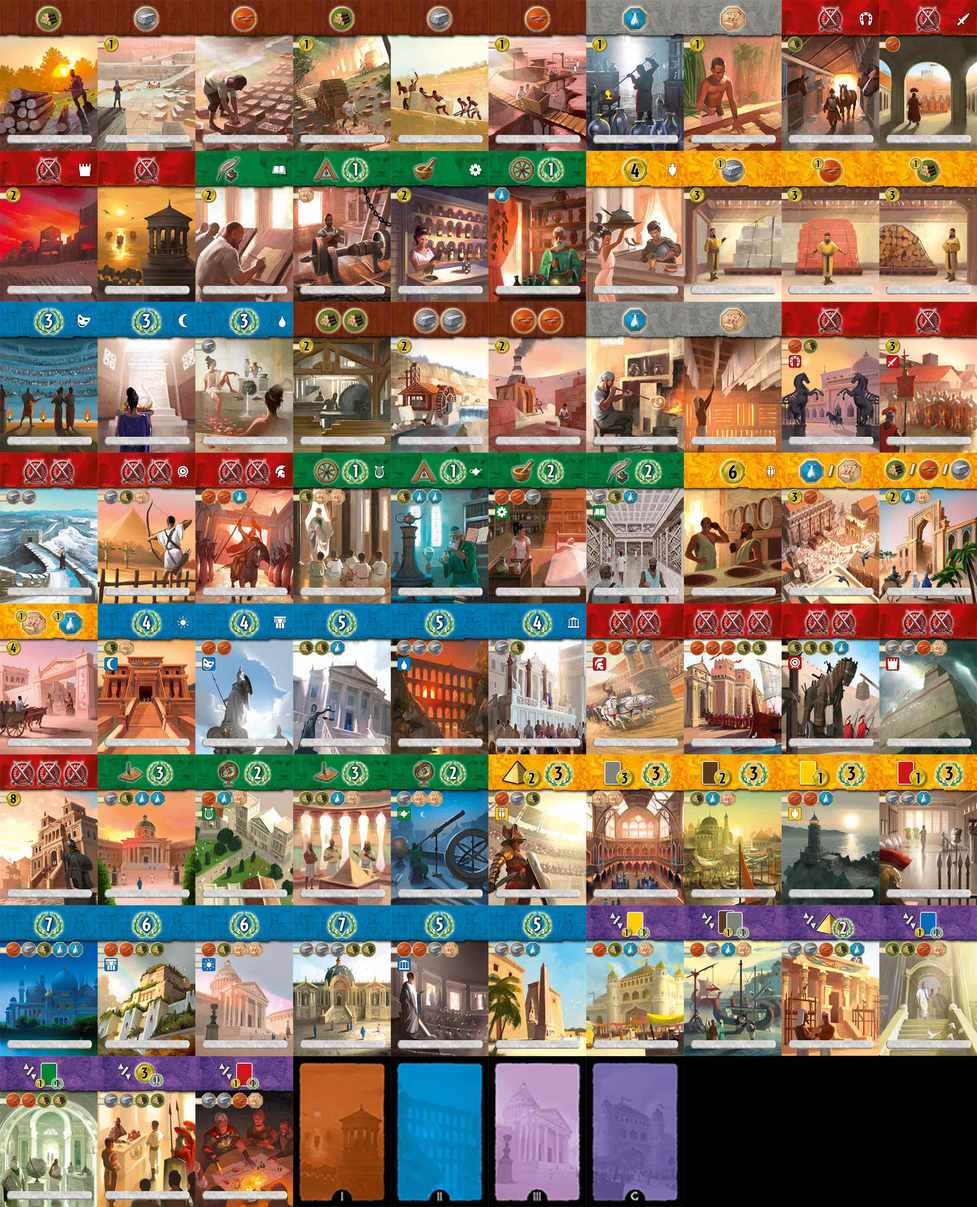
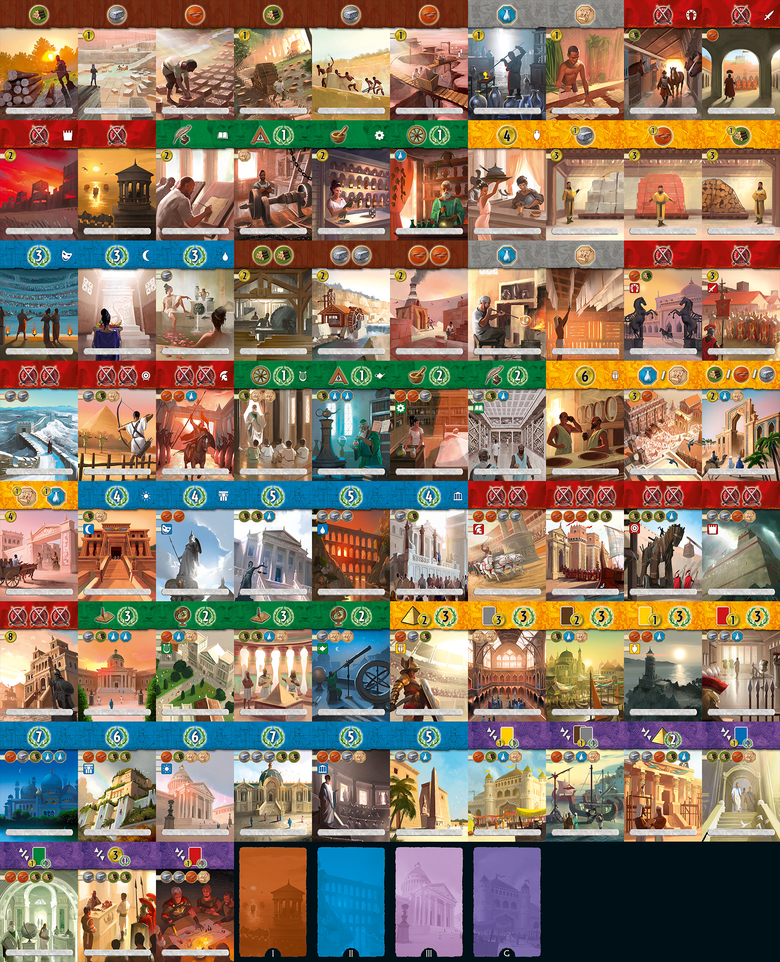
Highres art Buildings. Had to make the spritesheet smaller to support the @2X version at 4096 pixels high. To keep most of the current logic we multiply with --building-spritesheet-scale

diff --git a/sevenwondersduel_source.css b/sevenwondersduel_source.css
@@ -62,12 +62,13 @@ __     __         _       _     _
     --element-scale: 1.0;
     --gutter: calc(7.5px * var(--scale));
 
-    --building-spritesheet-width: 2080px;
-    --building-spritesheet-height: 2568px;
+    --building-spritesheet-width: 1660px;
+    --building-spritesheet-height: 2080px;
     --building-spritesheet-columns: 10;
     --building-spritesheet-rows: 8;
-    --building-width: calc(var(--building-spritesheet-width) / var(--building-spritesheet-columns));
-    --building-height: calc(var(--building-spritesheet-height) / var(--building-spritesheet-rows));
+    --building-spritesheet-scale: 1.253; /* Had to make the spritesheet smaller to support the @2X version at 4096 pixels high. */
+    --building-width: calc(var(--building-spritesheet-width) / var(--building-spritesheet-columns) * var(--building-spritesheet-scale));
+    --building-height: calc(var(--building-spritesheet-height) / var(--building-spritesheet-rows) * var(--building-spritesheet-scale));
     --building-small-scale: calc(0.5 * var(--scale));
     --building-small-width: calc(var(--building-width) * var(--building-small-scale));
     --building-small-height: calc(var(--building-height) * var(--building-small-scale));
@@ -1150,8 +1151,8 @@ __     __         _       _     _
 .building {
     width: calc(var(--building-width) * var(--scale));
     height: calc(var(--building-height) * var(--scale));
-    background-size: calc(var(--building-spritesheet-width) * var(--scale)) calc(var(--building-spritesheet-height) * var(--scale));
-    background-image: url('img/buildings.jpg');
+    background-size: calc(var(--building-width) * var(--building-spritesheet-columns) * var(--scale)) calc(var(--building-height) * var(--building-spritesheet-rows) * var(--scale));
+    background-image: url('img/buildings@2X.jpg');
     border-radius: calc(14px * var(--scale));
     box-shadow: calc(var(--scale) * 5px) calc(var(--scale) * 5px) calc(var(--scale) * 5px) 0 rgba(0, 0, 0, 0.4),
     inset 0 0 0 calc(var(--scale) * 1px) #00000060;
@@ -1162,7 +1163,7 @@ __     __         _       _     _
 .building_header_small {
     width: var(--building-small-width);
     height: var(--building-header-small-height);
-    background-size: calc(var(--building-spritesheet-width) * var(--building-small-scale)) calc(var(--building-spritesheet-height) * var(--building-small-scale));
+    background-size: calc(var(--building-width) * var(--building-spritesheet-columns) * var(--building-small-scale)) calc(var(--building-height) * var(--building-spritesheet-rows) * var(--building-small-scale));
     border-radius: var(--small-border-radius);
     box-shadow: 0 0 calc(var(--scale) * 3px) calc(var(--scale) * 1px) rgba(0, 0, 0, 0.4),
     inset 0 0 0 calc(var(--scale) * 0.5px) #00000060;
@@ -1199,7 +1200,7 @@ Because of reversing the flexbox order for the opponent there are 2 different ru
 .building_small {
     width: var(--building-small-width);
     height: var(--building-small-height);
-    background-size: calc(var(--building-spritesheet-width) * var(--building-small-scale)) calc(var(--building-spritesheet-height) * var(--building-small-scale));
+    background-size: calc(var(--building-width) * var(--building-spritesheet-columns) * var(--building-small-scale)) calc(var(--building-height) * var(--building-spritesheet-rows) * var(--building-small-scale));
     border-radius: var(--small-border-radius);
     box-shadow: 0 0 calc(var(--scale) * 3px) calc(var(--scale) * 1px) rgba(0, 0, 0, 0.4),
     inset 0 0 0 calc(var(--scale) * 0.5px) #00000060;
